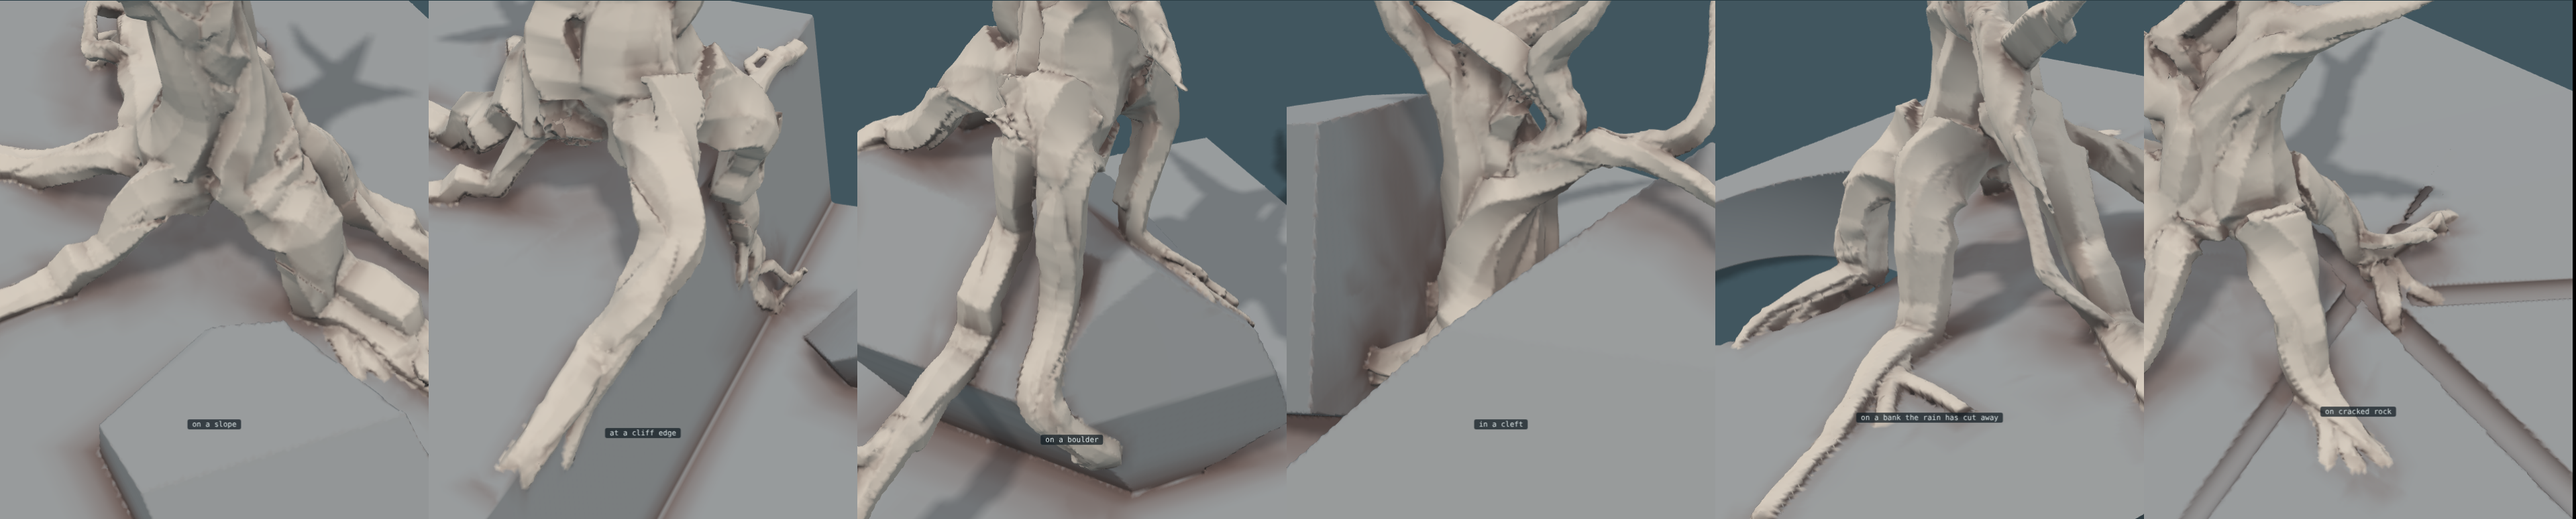
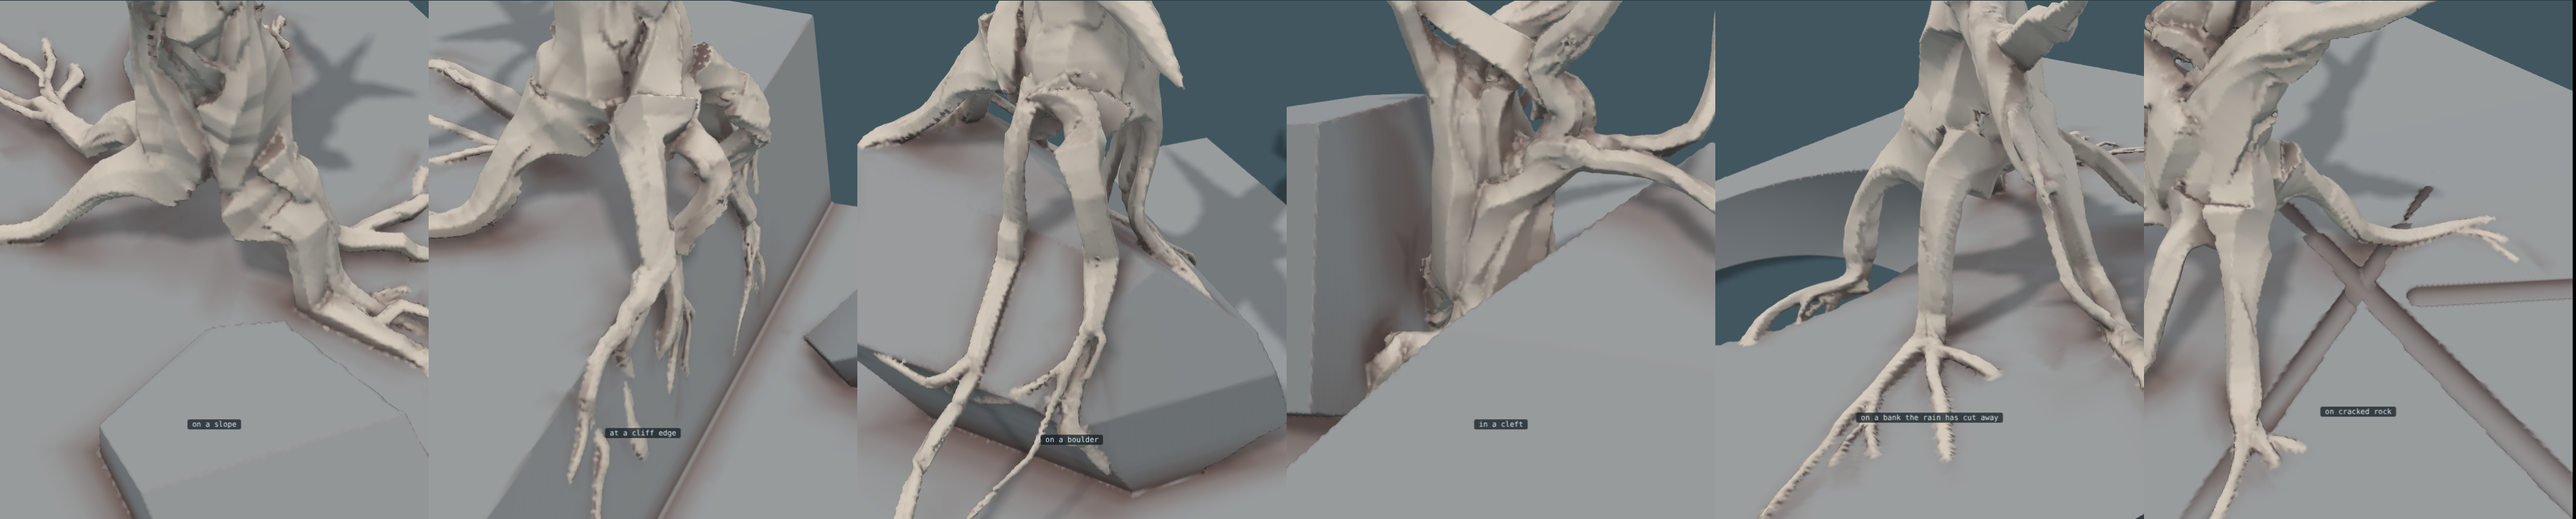
Withdraw the heavier roots: grip back to 0.5 with collar 2, the product that was always meant to be 1
Claude-Session: https://claude.ai/code/session_0192rgp75jGkttZXf7hEakip

diff --git a/trees.js b/trees.js
@@ -30,7 +30,7 @@
   function frames(P) { let N = null; return P.map((p, i) => { const T = unit([0, 1, 2].map((k) => P[Math.min(P.length - 1, i + 1)][k] - P[Math.max(0, i - 1)][k])); N = unit((N || [1, 0, 0.2]).map((v, k, A) => v - T[k] * dot(A, T))); return [T, N, cross(T, N)]; }); }
 
   function grow(recipe) {
-    const P = Object.assign({ strands: 8, fill: 0.75, uneven: 0.5, twist: 0.5, taut: 0.3, stiff: 0.05, hug: 0.15, bind: 0.004, roots: 0.6, wind: 1.1, mixed: false, lmax: 0, set: 0, swell: 1, feet: 0, lap: 0, ground: null, down: 0.6, crease: 3.2, seam: 0.55, seams: 7, hem: 2.2, leg: 0.16, knuckle: 0.55, bridge: 2.2, toe: 0.13, tip: 0.26, snake: 1, air: 0.18, reach: 0.6, eyes: 0.4, hang: 0.3, bold: 0.35, brace: 0.12, bite: 1.8, forks: 1, dive: 0.12, slant: 0.75, clumps: 3, cling: 0.88, grip: 0.8, collar: 1.6, flare: 0.07, waste: 0.25, clear: 1, settle: 0, giving: 0.75, passes: 1500, ds: 0.035, seed: 1, trunk: [[0, 0.14, 0, 0.27], [0, 1.6, 0, 0.1]], limbs: [], orb: null }, recipe);
+    const P = Object.assign({ strands: 8, fill: 0.75, uneven: 0.5, twist: 0.5, taut: 0.3, stiff: 0.05, hug: 0.15, bind: 0.004, roots: 0.6, wind: 1.1, mixed: false, lmax: 0, set: 0, swell: 1, feet: 0, lap: 0, ground: null, down: 0.6, crease: 3.2, seam: 0.55, seams: 7, hem: 2.2, leg: 0.16, knuckle: 0.55, bridge: 2.2, toe: 0.13, tip: 0.26, snake: 1, air: 0.18, reach: 0.6, eyes: 0.4, hang: 0.3, bold: 0.35, brace: 0.12, bite: 1.8, forks: 1, dive: 0.12, slant: 0.75, clumps: 3, cling: 0.88, grip: 0.5, collar: 2, flare: 0.07, waste: 0.25, clear: 1, settle: 0, giving: 0.75, passes: 1500, ds: 0.035, seed: 1, trunk: [[0, 0.14, 0, 0.27], [0, 1.6, 0, 0.1]], limbs: [], orb: null }, recipe);
     // The ground, if the tree is given one: any function of a place that is how far it is outside the ground (less than
     // nothing inside). Without one the ground is the level at height 0, as it always was. (A grown tree is always given one, level if nothing else, so that its roots are walked.)
     const G = P.ground, gradG = G ? (x, y, z) => { const e = 0.008; return unit([G(x + e, y, z) - G(x - e, y, z), G(x, y + e, z) - G(x, y - e, z), G(x, y, z + e) - G(x, y, z - e)]); } : null, rootPts = [];

diff --git a/LOG.md b/LOG.md
@@ -3793,3 +3793,43 @@ Wrong, or not there:
 
       page 9's lines, from here   d32867d9a7 802cb84e69 436e4cee59 53b34326a7 30ac9d0ac6
       page 7's four, unchanged    e387ada36c 17dc01b122 a61f129179 b2eac9db5f
+
+## Withdrawn: the heavier roots of the entry above
+
+"Now the excessive huge girths have returned." They had, and the entry
+above put them there. Two mistakes, one of them worse than it looks.
+
+**`grip` 0.62 -> 0.8 was too much.** It was chosen because the roots read
+as wiry, and it was checked against the budget, which it passed: 0.81 of
+the trunk's section at the most loaded ring, nearer the pipe model than the
+0.45 it had been. The number was right and the tree was wrong. What the
+budget cannot see is that the beams of the same round lifted the roots off
+the ground, so more of each root shows than before at the same girth: the
+same number now looks half again as thick. A measure taken before a change
+does not carry across it.
+
+**And it broke an invariant that was written down.** The comment on the
+collar says `collar` x `grip` is about 1, the two set together: a root
+leaves the trunk at its own share of the section and is down to its running
+girth within `flare`. I changed one and not the other, so the product went
+to 1.28 and every root left the trunk 28% over its share. That is exactly
+the "they start about 70% too thick" fault from the roots entries, come
+back by a different door. A number with a stated relation to another is
+not free to move on its own, and I read the comment, wrote the change
+underneath it, and did not apply it.
+
+So: `grip` 0.5, `collar` 2, product 1.0 again, chosen by picture against
+0.42, 0.5, 0.55, 0.62 and 0.8. Mass where a tree carries it -- the foot
+spreads into broad buttresses -- and slim along the root, which is the
+proportion the heavier setting had inverted.
+
+      heaviest root, against the trunk's radius   0.24   (0.34 at grip 0.8)
+      roots crossing a ring, at most              0.40 of the trunk's section
+
+The knuckles are kept at full strength: tested at 0.3 and 0.55, and the
+smaller one takes away the character without taking away any bulk worth
+having. The girth was never in the knuckles.
+
+
+      page 9's lines, from here   b1cb17889f 0736abf4f0 89ee38b16e 561483e938 b15cb8ba77
+      page 7's four, unchanged    e387ada36c 17dc01b122 a61f129179 b2eac9db5f
